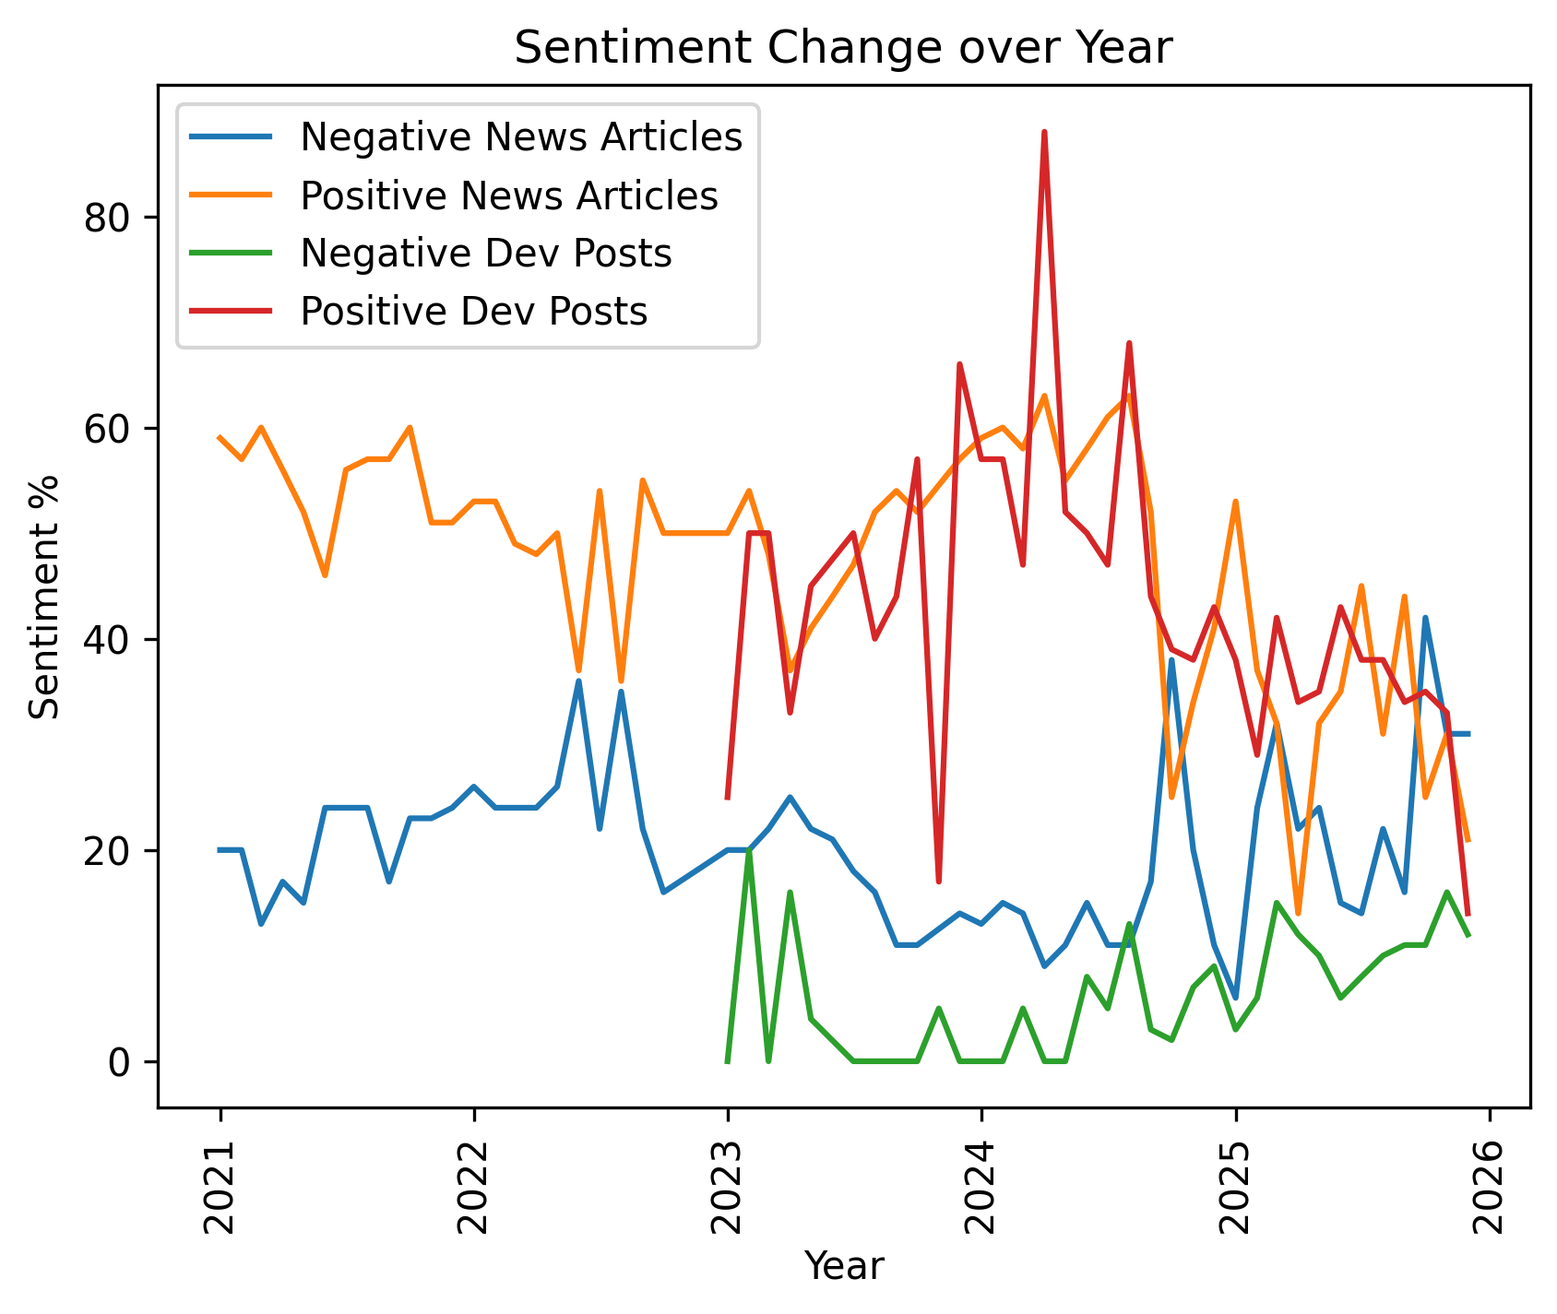
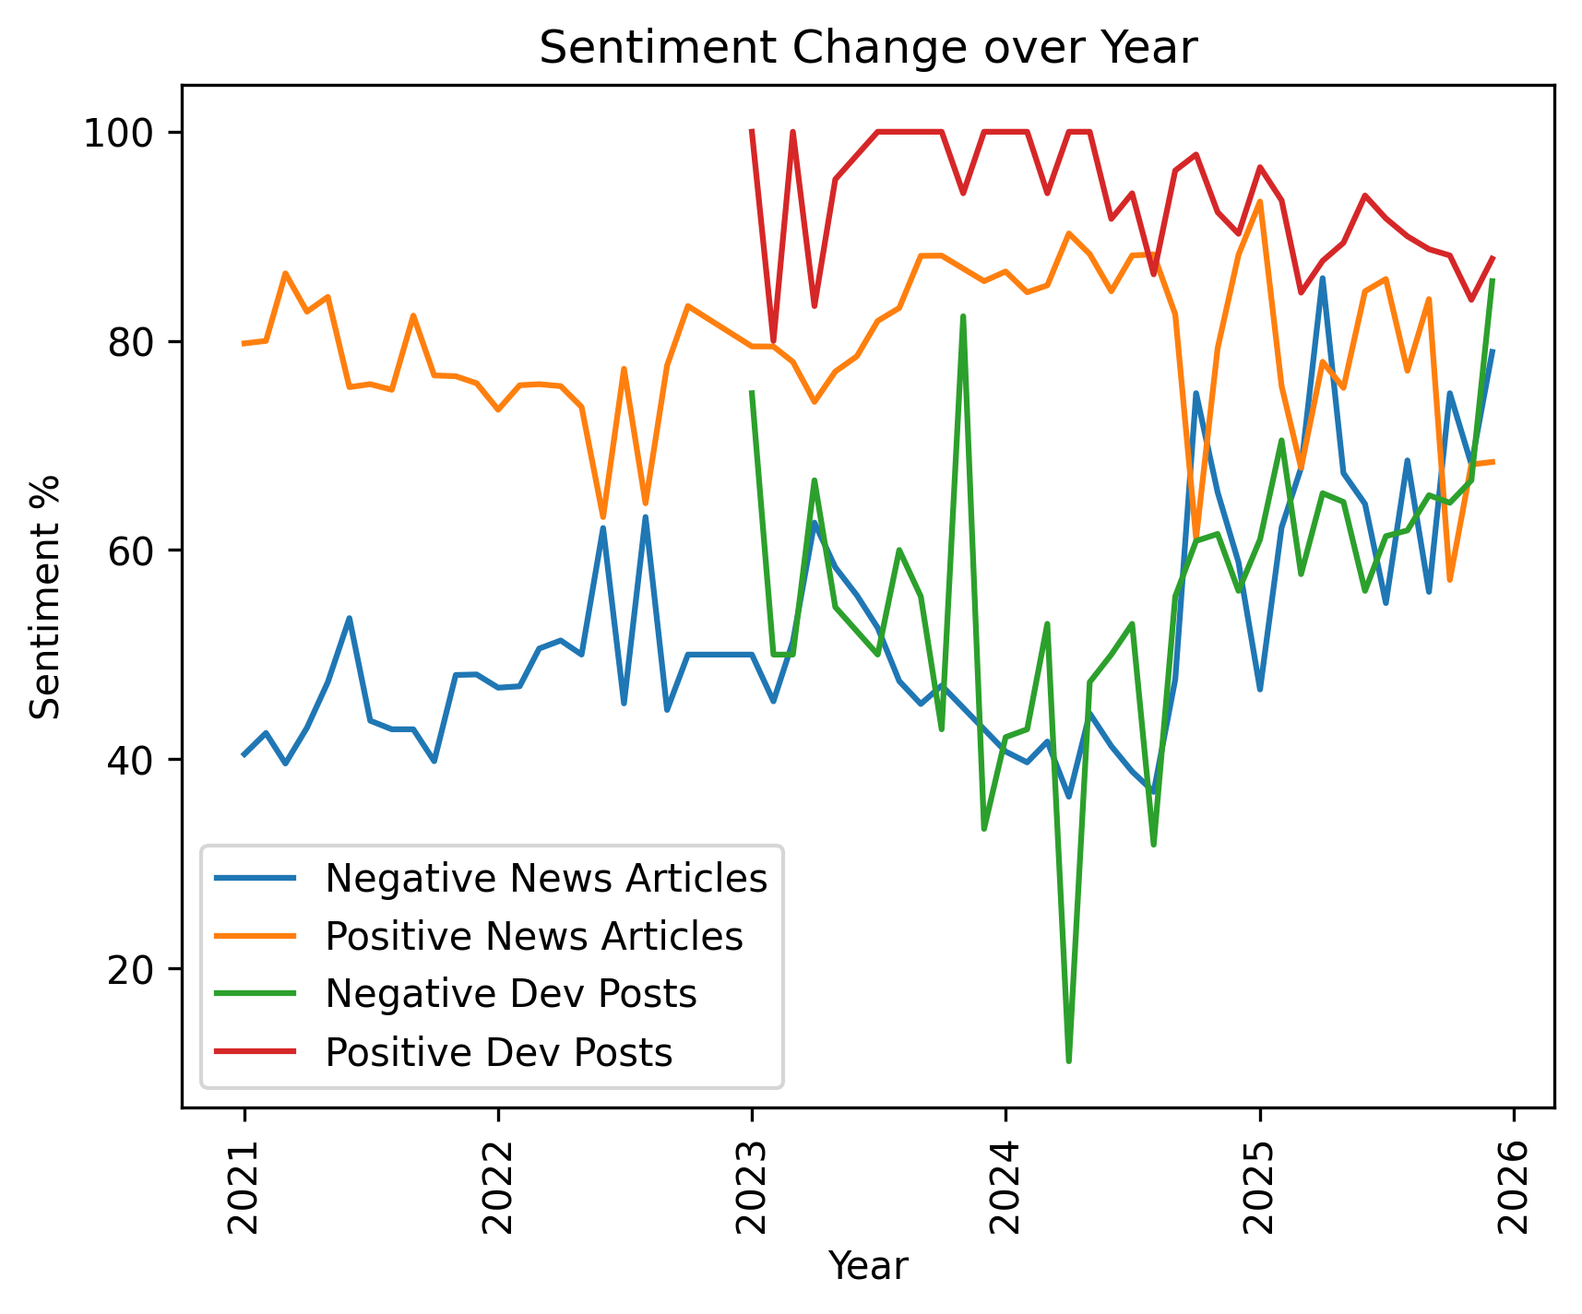
merge into QA

diff --git a/webbapp/frontend/visualizations/visualization_3.html b/webbapp/frontend/visualizations/visualization_3.html
@@ -58,7 +58,7 @@
         </nav>
         <div class="row">
             <h2>Topic Discussion Over Time</h2>
-            <div class="col-lg-4">
+            <div class="col-lg-5">
                 <div class="form">
                     <label class="form-label" id="output_post_per_month_threshold" for="post_per_month_threshold">Post Per Month: 5</label>
                     <input class="form-range" type="range" id="post_per_month_threshold" name="post_per_month_threshold" min="0" max="100" step="5" value="5" oninput="update_slider_output('post_per_month_threshold', 'Post Per Month Threshold: ')" onchange="generate_topic_disc_over_time_chart()"/>
@@ -79,34 +79,49 @@
                         <tbody>
                             <tr>
                                 <th scope="row">1</th>
-                                <td>jobs, work, leaders</td>
-                                <td>code, software, development</td>
+                                <td>jobs, workers, employees</td>
+                                <td>code, engineering, development</td>
                             </tr>
                             <tr>
                                 <th scope="row">2</th>
-                                <td>data, learning, machine</td>
-                                <td>models, model, google</td>
+                                <td>data, security, cybersecurity</td>
+                                <td>openai, models, google</td>
                             </tr>
                             <tr>
                                 <th scope="row">3</th>
-                                <td>generative, chatgpt, content</td>
-                                <td>work, time, tools</td>
+                                <td>generative, language, models</td>
+                                <td>tools, time, work</td>
                             </tr>
                             <tr>
                                 <th scope="row">4</th>
                                 <td>tech, industry, world</td>
-                                <td>learning, machine, artificial</td>
+                                <td>ml, algorithms, artificial</td>
                             </tr>
                             <tr>
                                 <th scope="row">5</th>
-                                <td>google, openai, company</td>
-                                <td>enterprise, 2025, artificial</td>
+                                <td>google, openai, microsoft</td>
+                                <td>enterprise, companies, business</td>
+                            </tr>
+                            <tr>
+                                <th scope="row">6</th>
+                                <td>business, companies, services</td>
+                                <td>customer, automation, chatbots</td>
+                            </tr>
+                            <tr>
+                                <th scope="row">7</th>
+                                <td>people, think, human</td>
+                                <td>financial, healthcare, predictive</td>
+                            </tr>
+                            <tr>
+                                <th scope="row">8</th>
+                                <td>government, president, china</td>
+                                <td>agentic, autonomous, workflows</td>
                             </tr>
                         </tbody>
                         </table>
                 </div>
             </div>
-            <div id="topic_disc_over_time" class="col-lg-8 align-self-center align-items-center px-5">
+            <div id="topic_disc_over_time" class="col-lg-7 align-self-center align-items-center px-5">
                 <img src="../images/default_topic_disc_over_time.png?t=213435" alt="Placeholder Image" class="img-fluid">
             </div>
         </div>

diff --git a/webbapp/frontend/visualizations/visualization_2.html b/webbapp/frontend/visualizations/visualization_2.html
@@ -75,6 +75,9 @@
                       <option value="2">Topic 3</option>
                       <option value="3">Topic 4</option>
                       <option value="4">Topic 5</option>
+                      <option value="5">Topic 6</option>
+                      <option value="6">Topic 7</option>
+                      <option value="7">Topic 8</option>
                     </select>
 
                 </div>
@@ -94,28 +97,43 @@
                         <tbody>
                             <tr>
                                 <th scope="row">1</th>
-                                <td>jobs, work, leaders</td>
-                                <td>code, software, development</td>
+                                <td>jobs, workers, employees</td>
+                                <td>code, engineering, development</td>
                             </tr>
                             <tr>
                                 <th scope="row">2</th>
-                                <td>data, learning, machine</td>
-                                <td>models, model, google</td>
+                                <td>data, security, cybersecurity</td>
+                                <td>openai, models, google</td>
                             </tr>
                             <tr>
                                 <th scope="row">3</th>
-                                <td>generative, chatgpt, content</td>
-                                <td>work, time, tools</td>
+                                <td>generative, language, models</td>
+                                <td>tools, time, work</td>
                             </tr>
                             <tr>
                                 <th scope="row">4</th>
                                 <td>tech, industry, world</td>
-                                <td>learning, machine, artificial</td>
+                                <td>ml, algorithms, artificial</td>
                             </tr>
                             <tr>
                                 <th scope="row">5</th>
-                                <td>google, openai, company</td>
-                                <td>enterprise, 2025, artificial</td>
+                                <td>google, openai, microsoft</td>
+                                <td>enterprise, companies, business</td>
+                            </tr>
+                            <tr>
+                                <th scope="row">6</th>
+                                <td>business, companies, services</td>
+                                <td>customer, automation, chatbots</td>
+                            </tr>
+                            <tr>
+                                <th scope="row">7</th>
+                                <td>people, think, human</td>
+                                <td>financial, healthcare, predictive</td>
+                            </tr>
+                            <tr>
+                                <th scope="row">8</th>
+                                <td>government, president, china</td>
+                                <td>agentic, autonomous, workflows</td>
                             </tr>
                         </tbody>
                         </table>

diff --git a/webbapp/frontend/index.html b/webbapp/frontend/index.html
@@ -39,19 +39,19 @@
           <div class="collapse navbar-collapse" id="navbarNav">
             <ul class="navbar-nav">
               <li class="nav-item active">
-                <a class="nav-link" href="visualizations/visualization_1.html">Visualization 1</a>
+                <a class="nav-link" href="/visualizations/visualization_1.html">Visualization 1</a>
               </li>
               <li class="nav-item">
-                <a class="nav-link" href="visualizations/visualization_2.html">Visualization 2</a>
+                <a class="nav-link" href="/visualizations/visualization_2.html">Visualization 2</a>
               </li>
               <li class="nav-item">
-                <a class="nav-link" href="visualizations/visualization_3.html">Visualization 3</a>
+                <a class="nav-link" href="/visualizations/visualization_3.html">Visualization 3</a>
               </li>
               <li class="nav-item">
-                <a class="nav-link" href="visualizations/visualization_4.html">Visualization 4</a>
+                <a class="nav-link" href="/visualizations/visualization_4.html">Visualization 4</a>
               </li>
               <li class="nav-item">
-                <a class="nav-link" href="visualizations/visualization_5.html">Visualization 5</a>
+                <a class="nav-link" href="/visualizations/visualization_5.html">Similarity Search</a>
               </li>
             </ul>
           </div>

diff --git a/webbapp/frontend/visualizations/visualization_1.html b/webbapp/frontend/visualizations/visualization_1.html
@@ -76,8 +76,11 @@
                     <input class="form-check-input" type="checkbox" id="topic_4" name="topic_4" value="topic_4" onchange="generate_sen_by_len_chart()" checked/>
                     <label class="form-check-label" id="topic_4_label" for="topic_4">How AI is portrayed in media or public opinion</label><br>
 
-                    <label class="form-label" id="output_news_length_threshold" for="news_length_threshold">News Length Threshold: 55000</label>
-                    <input class="form-range" type="range" id="news_length_threshold" name="news_length_threshold" min="10000" max="100000" step="1000" oninput="update_slider_output('news_length_threshold', 'News Length Threshold: ')" onchange="generate_sen_by_len_chart()"/>
+                    <input class="form-check-input" type="checkbox" id="topic_5" name="topic_5" value="topic_5" onchange="generate_sen_by_len_chart()" checked/>
+                    <label class="form-check-label" id="topic_5_label" for="topic_5">Legal, regulatory, or policy issues related to AI</label><br>
+
+                    <input class="form-check-input" type="checkbox" id="topic_6" name="topic_6" value="topic_6" onchange="generate_sen_by_len_chart()" checked/>
+                    <label class="form-check-label" id="topic_6_label" for="topic_6">The environmental impact or energy consumption of AI</label><br>
 
 
                 </div>

diff --git a/webbapp/frontend/visualizations/visualization_4.html b/webbapp/frontend/visualizations/visualization_4.html
@@ -73,7 +73,7 @@
                     <label class="form-label" id="output_post_per_month_threshold" for="post_per_month_threshold">Post Per Month: 5</label>
                     <input class="form-range" type="range" id="post_per_month_threshold" name="post_per_month_threshold" min="0" max="100" step="5" value="5" oninput="update_slider_output('post_per_month_threshold', 'Post Per Month Threshold: ')" onchange="generate_sen_over_time_chart()"/>
                 </div>
-                <div id="param_explainer" class="mt-5">
+                <div id="param_explainer" class="mt-3">
                     <ul class="list-group bg-dark text-light">
                         <li class="list-group-item bg-dark text-light">Table Choice: What tables to pull data from to chart sentiment change over time</li>
                         <li class="list-group-item bg-dark text-light">Sentiment Threshold: The <i>`zero point`</i> for classifying posts based on sentiment score, i.e. score above the threshold are positive, and below are negative</li>

diff --git a/webbapp/frontend/visualizations/visualization_5.html b/webbapp/frontend/visualizations/visualization_5.html
@@ -237,9 +237,9 @@
                     <li class="nav-item">
                         <a class="nav-link" href="../visualizations/visualization_3.html">Visualization 3</a>
                     </li>
-                    <li class="nav-item">
-                        <a class="nav-link" href="../visualizations/visualization_4.html">Visualization 4</a>
-                    </li>
+                  <li class="nav-item">
+                    <a class="nav-link" href="/visualizations/visualization_4.html">Visualization 4</a>
+                  </li>
                     <li class="nav-item">
                         <a class="nav-link active" href="#">Similarity Search</a>
                     </li>

diff --git a/webbapp/backend/charting_functions.py b/webbapp/backend/charting_functions.py
@@ -1,16 +1,40 @@
 from pandas import read_sql
 import matplotlib.pyplot as plt
 from matplotlib import use as plt_use
-import seaborn as sns
 from sqlite3 import connect
 from datetime import datetime
 
 DB_FILE = "../../db.sqlite"
-NEWS_TOPIC_LIST = ["jobs, work, leaders", "data, learning, machine", "generative, chatgpt, content", "tech, industry, world", "google, openai, company"]
-DP_TOPIC_LIST = ["code, software, development", "models, model, google", "just, like, work", "learning, machine, artificial", "enterprise, 2025, artificial"]
+NEWS_TOPIC_LIST = [
+    "jobs, workers, employees",
+    "data, security, cybersecurity",
+    "generative, language, models",
+    "tech, industry, world",
+    "google, openai, microsoft",
+    "business, companies, services",
+    "people, think, human",
+    "government, president, china"
+]
+
+
+DP_TOPIC_LIST = [
+    "code, engineering, development",
+    "openai, models, google",
+    "tools, time, work",
+    "ml, algorithms, artificial",
+    "enterprise, companies, business",
+    "customer, automation, chatbots",
+    "financial, healthcare, predictive",
+    "agentic, autonomous, workflows"
+]
+
+
+
 TABLE_TOPIC_LIST = {
     "modified_articles": NEWS_TOPIC_LIST,
-    "devposts": DP_TOPIC_LIST}
+    "devposts": DP_TOPIC_LIST
+}
+
 plt_use("agg")
 
 def save_plot(filename, fig=None):
@@ -24,57 +48,6 @@ def save_plot(filename, fig=None):
         plt.close()
 
     return f"/images/{filename}"
-
-
-# Sentiment Distribution Over Length
-
-def get_sentiment_dist_over_length(table_name, column, date_column, sentiment_threshold=0.0, length_threshold=500000):
-    query = f"""SELECT {column},
-                CASE
-                    WHEN roberta_pos_score - roberta_neg_score > {sentiment_threshold} THEN 'positive'
-                    ELSE 'negative'
-                END sentiment,
-                strftime('%Y-%m', {date_column}) month_released
-                FROM {table_name}
-                WHERE strftime('%Y-%m', {date_column}) BETWEEN "2021-01" AND "2025-12"
-                ORDER BY month_released, strftime('%m', {date_column});"""
-    conn = connect(DB_FILE)
-
-    df = read_sql(query, conn)
-    conn.close()
-    df["length"] = df[column].apply(len)
-    df = df[df["length"] < length_threshold]
-    return df
-
-
-def generate_sen_by_len_chart(data, filename="sen_by_len.png"):
-    sentiment_threshold = float(data["params"].get("sentiment_threshold", 0))
-    news_length_threshold = int(data["params"].get("news_length_threshold", 55000))
-    devposts_length_threshold = int(data["params"].get("devposts_length_threshold", 55000))
-
-
-    articles_df = get_sentiment_dist_over_length("modified_articles", "text", date_column="date",
-                                                 sentiment_threshold=sentiment_threshold,
-                                                 length_threshold=news_length_threshold)
-    dp_df = get_sentiment_dist_over_length("DevPosts", "body_text", date_column="published_at",
-                                           sentiment_threshold=sentiment_threshold,
-                                           length_threshold=devposts_length_threshold)
-
-
-    fig, axes = plt.subplots(1, 2, figsize=(9, 5))
-    sns.boxplot(x="sentiment", y='length', data=articles_df, ax=axes[0])
-
-    sns.boxplot(x="sentiment", y='length', data=dp_df, ax=axes[1])
-    for ax in axes:
-        ax.set_xlabel("")
-        ax.set_ylabel("")
-    axes[0].set_title("News Articles Sentiment Distribution by Length")
-    axes[1].set_title("DevPosts Sentiment Distribution by Length")
-    fig.supylabel("Length (chars)")
-    fig.supxlabel("Sentiment")
-
-    save_plot(filename, fig)
-
 
 # Sentiment Distribution over Topic
 
@@ -120,7 +93,10 @@ def get_topic_disc_over_time(plot, post_per_month_threshold, table_name, date_co
     SUM(CASE WHEN dominant_topic = 1 THEN 1 ELSE 0 END) * 100.0 / count(*) topic_1,
     SUM(CASE WHEN dominant_topic = 2 THEN 1 ELSE 0 END) * 100.0 / count(*) topic_2,
     SUM(CASE WHEN dominant_topic = 3 THEN 1 ELSE 0 END) * 100.0 / count(*) topic_3,
-    SUM(CASE WHEN dominant_topic = 4 THEN 1 ELSE 0 END) * 100.0 / count(*) topic_4
+    SUM(CASE WHEN dominant_topic = 4 THEN 1 ELSE 0 END) * 100.0 / count(*) topic_4,
+    SUM(CASE WHEN dominant_topic = 5 THEN 1 ELSE 0 END) * 100.0 / count(*) topic_5,
+    SUM(CASE WHEN dominant_topic = 6 THEN 1 ELSE 0 END) * 100.0 / count(*) topic_6,
+    SUM(CASE WHEN dominant_topic = 7 THEN 1 ELSE 0 END) * 100.0 / count(*) topic_7
                     FROM {table_name}
                     GROUP BY month_released
                     HAVING COUNT(*) > {post_per_month_threshold}
@@ -133,23 +109,23 @@ def get_topic_disc_over_time(plot, post_per_month_threshold, table_name, date_co
     df["month_released"] = df["month_released"].apply(lambda x: datetime.strptime(x, "%Y-%m"))
 
     formal_table_name = "News Articles" if table_name == "modified_articles" else "Developer Posts"
-    for i in range(5):
-        plot.plot(df["month_released"], df[f"topic_{i}"], label=f"{formal_table_name} Topic {i + 1}")
-    plot.legend()
+    plot.set_title(formal_table_name)
+    for i in range(len(DP_TOPIC_LIST)):
+        plot.plot(df["month_released"], df[f"topic_{i}"], label=f"Topic {i + 1}")
+    plot.legend(loc="upper left", bbox_to_anchor=(1, 0.85), ncol=1, fontsize=10)
 
 
 def generate_topic_disc_over_time(data, filename="topic_disc_over_time.png"):
-    plt.figure(figsize=(10, 5))
     post_per_month_threshold = int(data["params"].get("post_per_month_threshold", 5))
 
-    fig, axes = plt.subplots(2, 1, figsize=(8, 6))
+    fig, axes = plt.subplots(2, 1, figsize=(9, 8))
     get_topic_disc_over_time(axes[0], post_per_month_threshold, "devposts", "published_at")
     get_topic_disc_over_time(axes[1], post_per_month_threshold, "modified_articles", "date")
 
     for ax in axes:
         ax.set_xlabel("")
         ax.set_ylabel("")
-    fig.supylabel("Topic")
+    fig.supylabel("% Topic Coverage")
     fig.suptitle("Normalized Topic Change over Months")
     fig.supxlabel("Month")
 
@@ -160,14 +136,12 @@ def generate_topic_disc_over_time(data, filename="topic_disc_over_time.png"):
 
 
 # Get sentiment over month
-def get_sentiment_change_over_months(table_name, column, sentiment_threshold=0, post_per_month_threshold=5):
-    query = f"""SELECT strftime('%Y-%m', {column}) month_released,
-    SUM(IF(roberta_pos_score - roberta_neg_score > {sentiment_threshold}, 1, 0)) * 100 / count(*) positive,
-    SUM(IF(roberta_pos_score - roberta_neg_score < -{sentiment_threshold}, 1, 0)) * 100 / count(*) negative
+def get_sentiment_change_over_months(table_name, column, sentiment_threshold=0.0, post_per_month_threshold=5):
+    query = f"""SELECT strftime('%Y-%m', {column}) AS month_released,
     SUM(CASE WHEN roberta_pos_score - roberta_neg_score >= {sentiment_threshold} THEN 1 ELSE 0 END) * 100.0 / count(*) positive,
-    SUM(CASE WHEN roberta_pos_score - roberta_neg_score <= -{sentiment_threshold} THEN 1 ELSE 0 END) * 100.0 / count(*) negative
+    SUM(CASE WHEN roberta_pos_score - roberta_neg_score <= -1 * {sentiment_threshold} THEN 1 ELSE 0 END) * 100.0 / count(*) negative
                 FROM {table_name}
-                WHERE strftime('%Y-%m', {column}) BETWEEN "2021-01" AND "2025-12"
+                WHERE month_released BETWEEN "2021-01" AND "2025-12"
                 GROUP BY month_released
                 HAVING COUNT(*) > {post_per_month_threshold}
                 ORDER BY month_released;"""
@@ -258,9 +232,3 @@ def generate_secondary_topic_disc_over_time(data, filename="sec_news_topic_disc.
     # plt.legend()
 
     save_plot(filename)
-
-if __name__ == "__main__":
-    generate_sent_change_over_time({"params": {}}, filename="default_sen_over_time.png")
-    generate_sen_by_topic({"params": {}}, filename="default_sentiment_by_topic.png")
-    generate_sen_by_len_chart({"params": {}}, filename="default_sentiment_dist_over_length.png")
-    generate_topic_disc_over_time({"params": {}}, filename="default_topic_disc_over_time.png")

diff --git a/webbapp/backend/backend.py b/webbapp/backend/backend.py
@@ -5,7 +5,6 @@ from similarity_search import EmbeddingPipeline
 from charting_functions import generate_secondary_topic_disc_over_time, generate_sen_by_topic, generate_topic_disc_over_time, generate_sent_change_over_time
 
 app = Flask(__name__)
-# CORS(app, resources={r"/*": {"origins": "https://unaccusing-georgeanna-triboelectric.ngrok-free.dev",}}, supports_credentials=True)
 CORS(app, resources={r"/*": {"origins": "http://localhost:5001",}}, supports_credentials=True)
 
 # Initialize embedding pipeline on startup
@@ -125,4 +124,8 @@ def find_similar():
         return jsonify({'error': str(e)}), 500
 
 if __name__ == '__main__':
+    generate_sent_change_over_time({"params": {}}, filename="default_sen_over_time.png")
+    generate_sen_by_topic({"params": {}}, filename="default_sentiment_by_topic.png")
+    generate_topic_disc_over_time({"params": {}}, filename="default_topic_disc_over_time.png")
+    generate_secondary_topic_disc_over_time({"params": {}}, filename="default_secondary_topic_disc_over_time.png")
     app.run(host='0.0.0.0', port=5001, debug=True)
